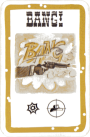
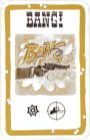
fixed card sizes

diff --git a/src/components/Card.tsx b/src/components/Card.tsx
@@ -185,7 +185,7 @@ export const Card: React.FC<Props> = ({ card, predictUseCard, predictUseBlueCard
     <button
       onClick={handleClick}
       style={styles}
-      className='w-[46px] sm:w-[60px] xs:w-[80px] rounded-md group flex flex-row justify-center'>
+      className='w-[46px] sm:w-[60px] xs:w-[80px] h-[72px] sm:h-[93px] xs:h-[124px] rounded-md group flex flex-row justify-center'>
       <img src={cardSource} alt="" />
       <div className='hidden p-1 z-40 font-rye absolute group-hover:flex group-hover:flex-col group-hover:justify-center translate-y-[-60px] bg-transparentBlack text-white'>
         <div className='text-xl'>
